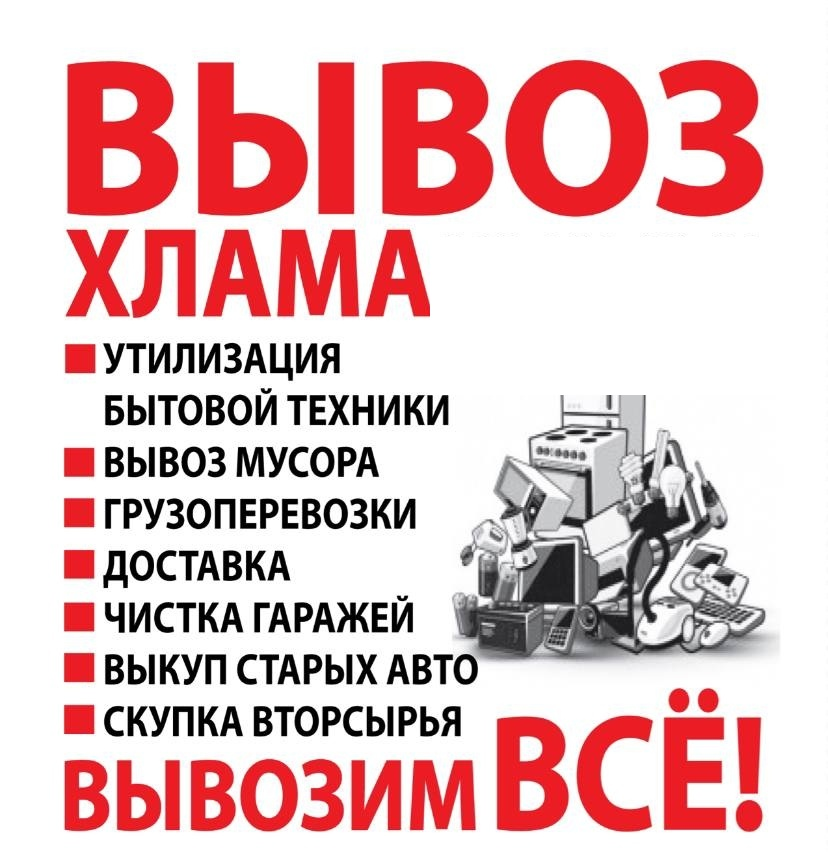
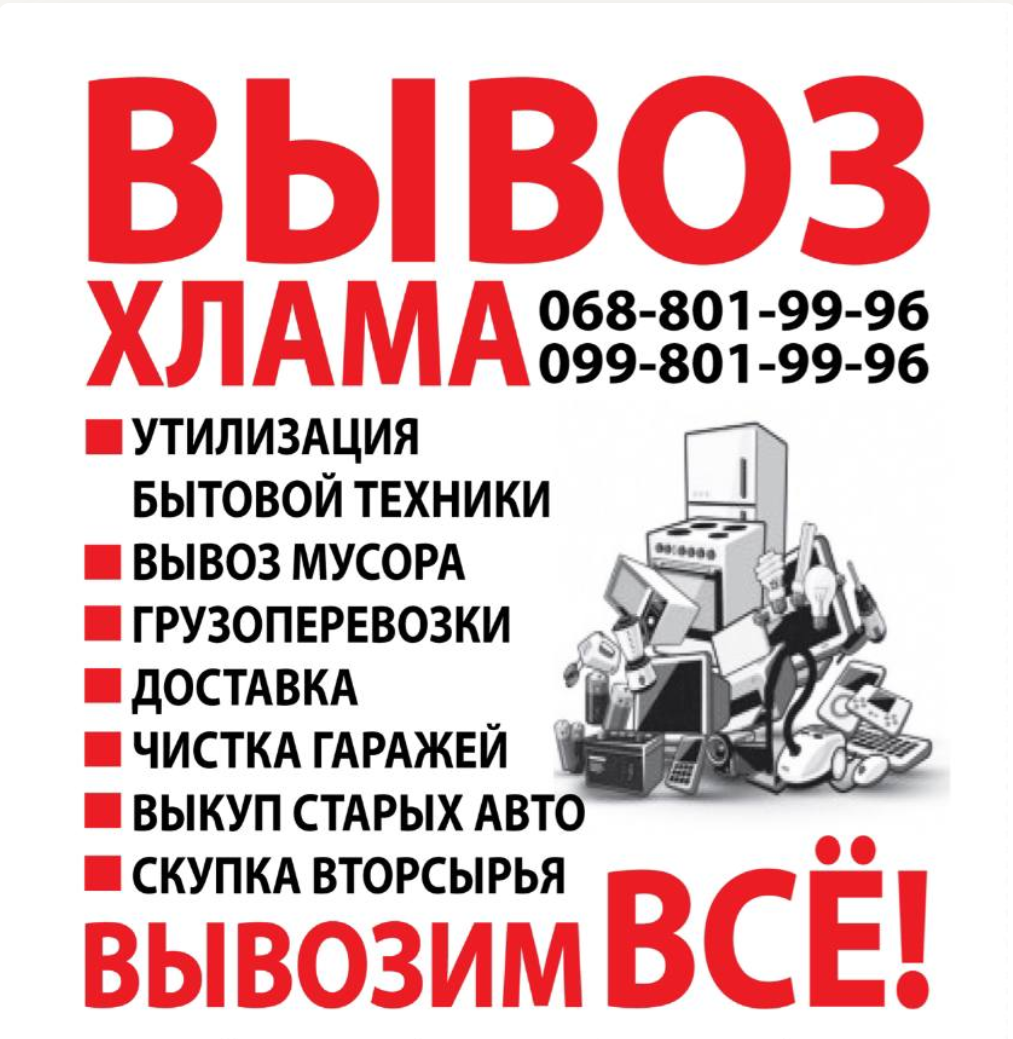
chore

diff --git a/src/main/resources/static/index.html b/src/main/resources/static/index.html
@@ -7,7 +7,7 @@
   <meta name="description" content="Вывоз хлама, мусора, утилизация бытовой техники, грузоперевозки, доставка, чистка гаражей и выкуп старых авто.">
   <link rel="icon" type="image/png" href="/assets/site-main-logo.png">
   <link rel="apple-touch-icon" href="/assets/site-main-logo.png">
-  <link rel="stylesheet" href="/styles.css?v=4">
+  <link rel="stylesheet" href="/styles.css?v=5">
 </head>
 <body>
   <header class="topbar">
@@ -43,7 +43,7 @@
       </div>
 
       <div class="hero-card hero-card-image" aria-label="Визитка с услугами вывоза хлама">
-        <img src="/assets/card-red.jpg" alt="Вывоз хлама, услуги и телефоны">
+        <img src="/assets/card-red.jpg?v=2" alt="Вывоз хлама, услуги и телефоны">
       </div>
     </section>
 